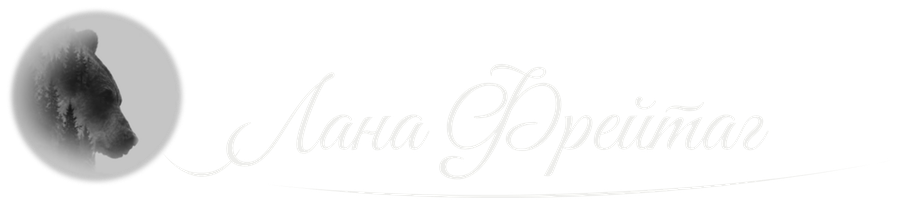
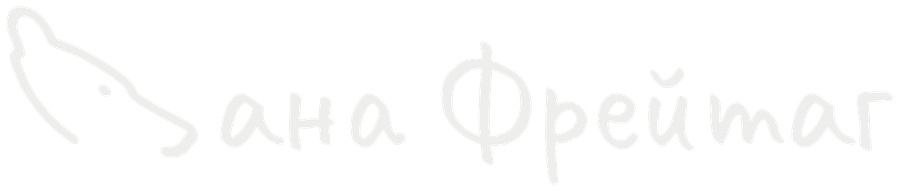
Автограф: графичный медведь вместо «Л», «ана Фрейтаг» небрежным почерком с наклоном влево, без завитушек; верхний медведь в письме — как был
Claude-Session: https://claude.ai/code/session_01Uu83MB45nkJX1tXJZPePva

Changed region(s): [[0.0, 0.0524, 0.2178, 0.8901]]

diff --git a/AGENTS.md b/AGENTS.md
@@ -88,7 +88,8 @@
   «Почта/Подписчицы.csv», если в «Свойствах скрипта» есть MAIL_KEY; адрес сервиса — `settings.site.mailUrl` в тексте программы.
   Вкладки «Письма» в админке больше нет (владелица: «зачем она теперь») — подключение сервиса (адрес → content.mailUrl через `patchSite`, пароль) — в Почте.
   **Автограф** (её идея: «автограф, вытекающий из мишки»): `site/autograph.png` (+ `autograph-light.png` для тёмной почты, `.sig-l/.sig-d`) —
-  медведь в кружке, из морды тонкая нить пера переходит в «Лана Фрейтаг» (Great Vibes) и росчерк под подписью; `letter.autograph` (по умолчанию да),
+  графичный медведь из линий (тот же, что `ic('bear')` / writer/bear.svg) — буква «Л», дальше «ана Фрейтаг» небрежным почерком (Caveat 500)
+  с наклоном влево 18°, без завитушек и росчерков (каллиграфию с медведем-фото и нитью она отвергла: «что за бред»); `letter.autograph` (по умолчанию да),
   верхний медведь (`bear`) остаётся всегда — владелица: «не трогать верхнего медведя». В «Обзоре» плитка сайта — с иконкой медведя (`ic('bear')`).
   Письмо без серой подложки под обложкой (владелица: «не нравится этот серый квадрат»; `tint` — только если задать явно); тёмная тема почты —
   `prefers-color-scheme` и `[data-ogsc]`, медведь — прозрачный `site/mail-bear.png`.
